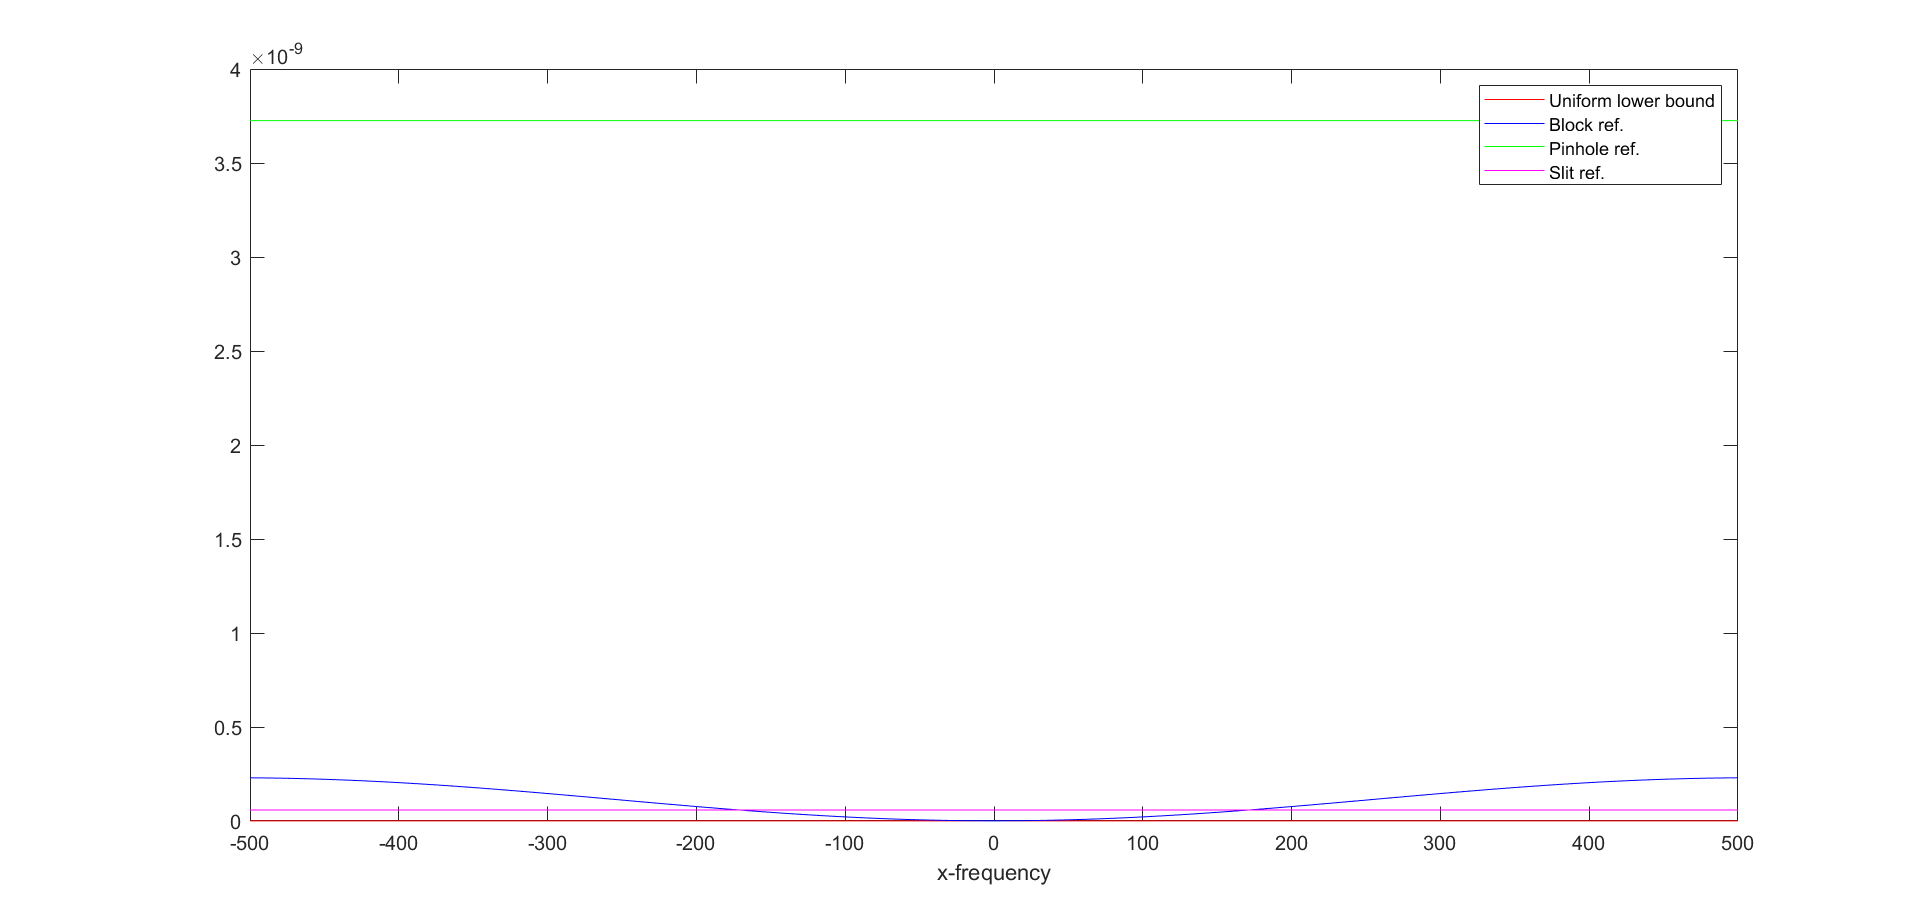
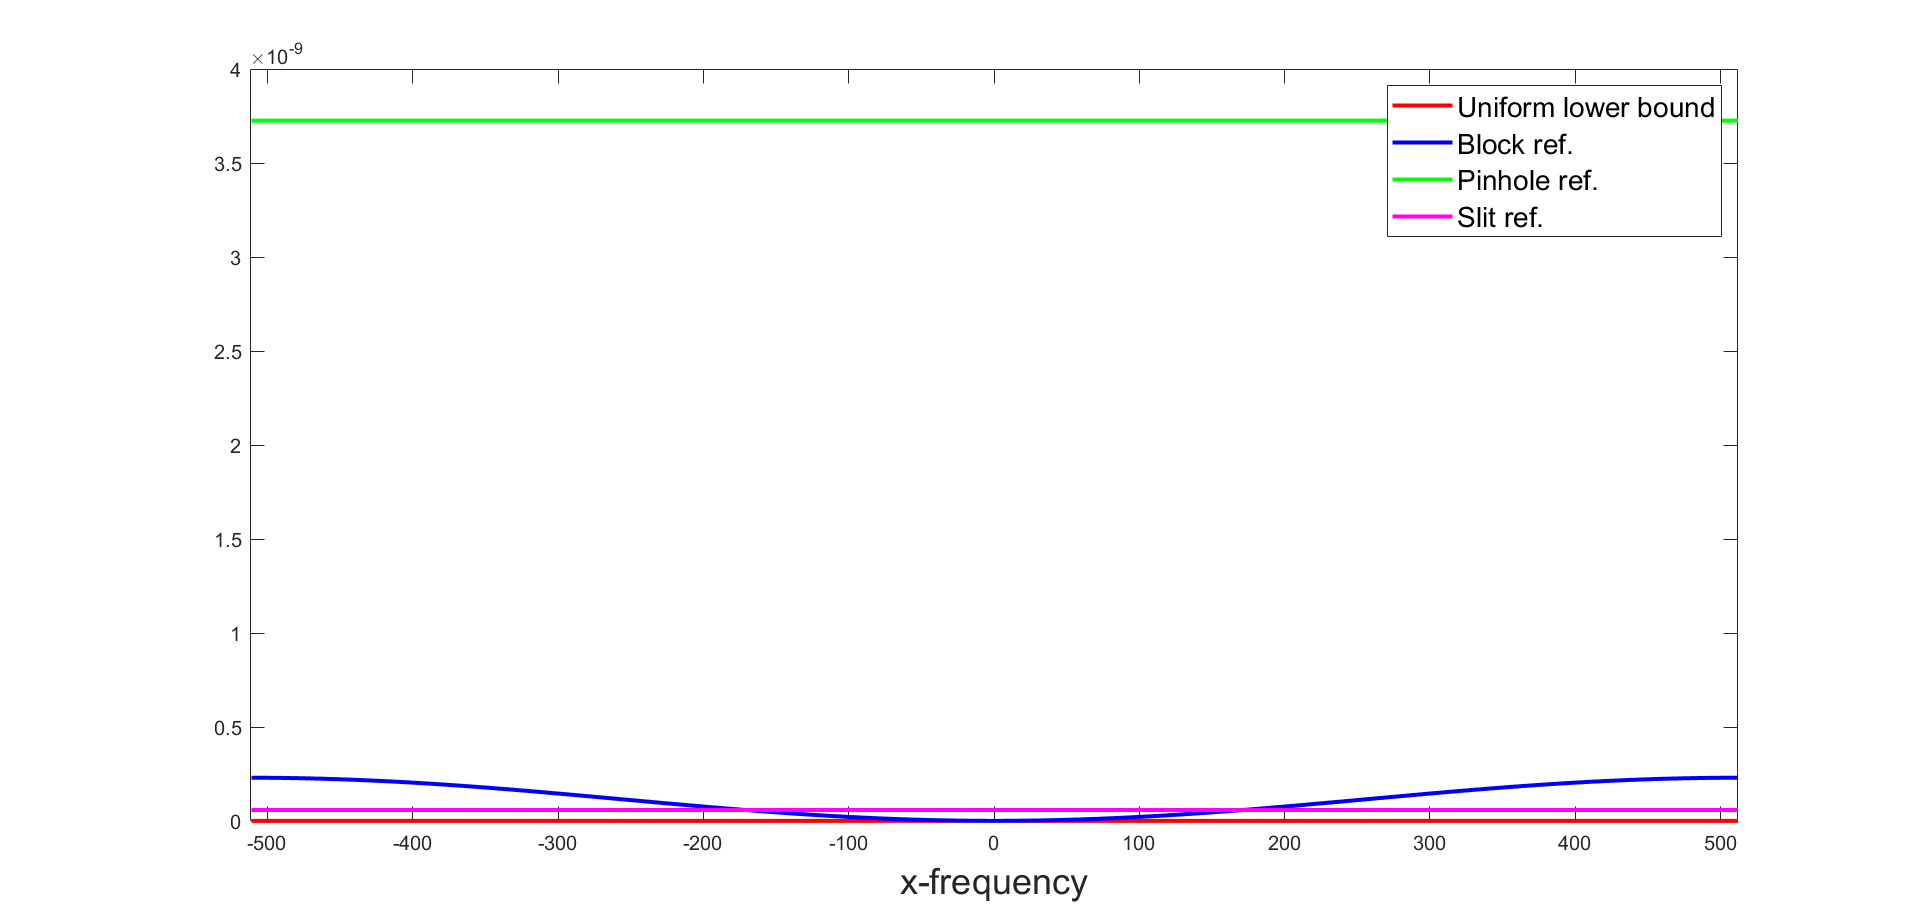
Add files via upload

diff --git a/err_scaling_compar_cross_sec_x.m b/err_scaling_compar_cross_sec_x.m
@@ -1,8 +1,8 @@
 clear all
 n=64;
 m=1024;
-bndry=500;
-for k1=-bndry:bndry
+bndry=511;
+for k1=-bndry:bndry+1
     k2=0;
     lower_bnd(k1+bndry+1)=1/(m^4);
     scaler_b(k1+bndry+1)=( (1/(m^2))+2*((n-1)/(m^2))*(1-cos(2*pi*k1/m)) )*( (1/(m^2))+2*((n-1)/(m^2))*(1-cos(2*pi*k2/m)));
@@ -10,17 +10,14 @@ for k1=-bndry:bndry
     scaler_s(k1+bndry+1)=(n/(m^2))*( (1/(m^2))+2*((n-1)/(m^2))*(1-cos(2*pi*k2/m)));
 end
 figure;
-plot([-bndry:bndry],lower_bnd,'red')
+plot([-bndry:bndry+1],lower_bnd,'red','LineWidth',2)
 hold on;
-plot([-bndry:bndry],scaler_b,'blue')
+plot([-bndry:bndry+1],scaler_b,'blue','LineWidth',2)
 hold on;
-plot([-bndry:bndry],scaler_p,'green')
+plot([-bndry:bndry+1],scaler_p,'green','LineWidth',2)
 hold on;
-plot([-bndry:bndry],scaler_s,'magenta')
+plot([-bndry:bndry+1],scaler_s,'magenta','LineWidth',2)
 hold off
-%direction = [1 1 0];
-%rotate(hSurface,direction,25)
-legend('Uniform lower bound','Block ref.', 'Pinhole ref.', 'Slit ref.')
-xlabel('x-frequency')
-%ylabel('y-frequency')
-%ylim([0,1e-5])
+legend({'Uniform lower bound','Block ref.', 'Pinhole ref.', 'Slit ref.'},'FontSize',14)
+xlabel('x-frequency','FontSize',18)
+xlim([-512,512])

diff --git a/err_scaling_compar_cross_sec_y.m b/err_scaling_compar_cross_sec_y.m
@@ -1,8 +1,8 @@
 clear all
 n=64;
 m=1024;
-bndry=500;
-for k2=-bndry:bndry
+bndry=511;
+for k2=-bndry:bndry+1
     k1=0;
     lower_bnd(k2+bndry+1)=1/(m^4);
     scaler_b(k2+bndry+1)=( (1/(m^2))+2*((n-1)/(m^2))*(1-cos(2*pi*k1/m)) )*( (1/(m^2))+2*((n-1)/(m^2))*(1-cos(2*pi*k2/m)));
@@ -10,17 +10,14 @@ for k2=-bndry:bndry
     scaler_s(k2+bndry+1)=(n/(m^2))*( (1/(m^2))+2*((n-1)/(m^2))*(1-cos(2*pi*k2/m)));
 end
 figure;
-plot([-bndry:bndry],lower_bnd,'red')
+plot([-bndry:bndry+1],lower_bnd,'red','LineWidth',2)
 hold on;
-plot([-bndry:bndry],scaler_b,'blue')
+plot([-bndry:bndry+1],scaler_b,'blue','LineWidth',2)
 hold on;
-plot([-bndry:bndry],scaler_p,'green')
+plot([-bndry:bndry+1],scaler_p,'green','LineWidth',2)
 hold on;
-plot([-bndry:bndry],scaler_s,'magenta')
+plot([-bndry:bndry+1],scaler_s,'magenta','LineWidth',2)
 hold off
-%direction = [1 1 0];
-%rotate(hSurface,direction,25)
-legend('Uniform lower bound','Block ref.', 'Pinhole ref.', 'Slit ref.')
-xlabel('y-frequency')
-%ylabel('y-frequency')
-%ylim([0,1e-5])
+legend({'Uniform lower bound','Block ref.', 'Pinhole ref.', 'Slit ref.'},'FontSize',14)
+xlabel('y-frequency','FontSize',18)
+xlim([-512,512])

diff --git a/err_scaling_compar1.m b/err_scaling_compar1.m
@@ -21,7 +21,7 @@ stem3([-bndry:bndry],[-bndry:bndry],scaler_s,'magenta')
 hold off
 %direction = [1 1 0];
 %rotate(hSurface,direction,25)
-legend('Uniform lower bound','Block ref.', 'Pinhole ref.', 'Slit ref.')
-xlabel('x-frequency')
-ylabel('y-frequency')
+legend({'Uniform lower bound','Block ref.', 'Pinhole ref.', 'Slit ref.'},'FontSize',14)
+xlabel('x-frequency','FontSize',18)
+ylabel('y-frequency','FontSize',18)
 %ylim([0,1e-5])
